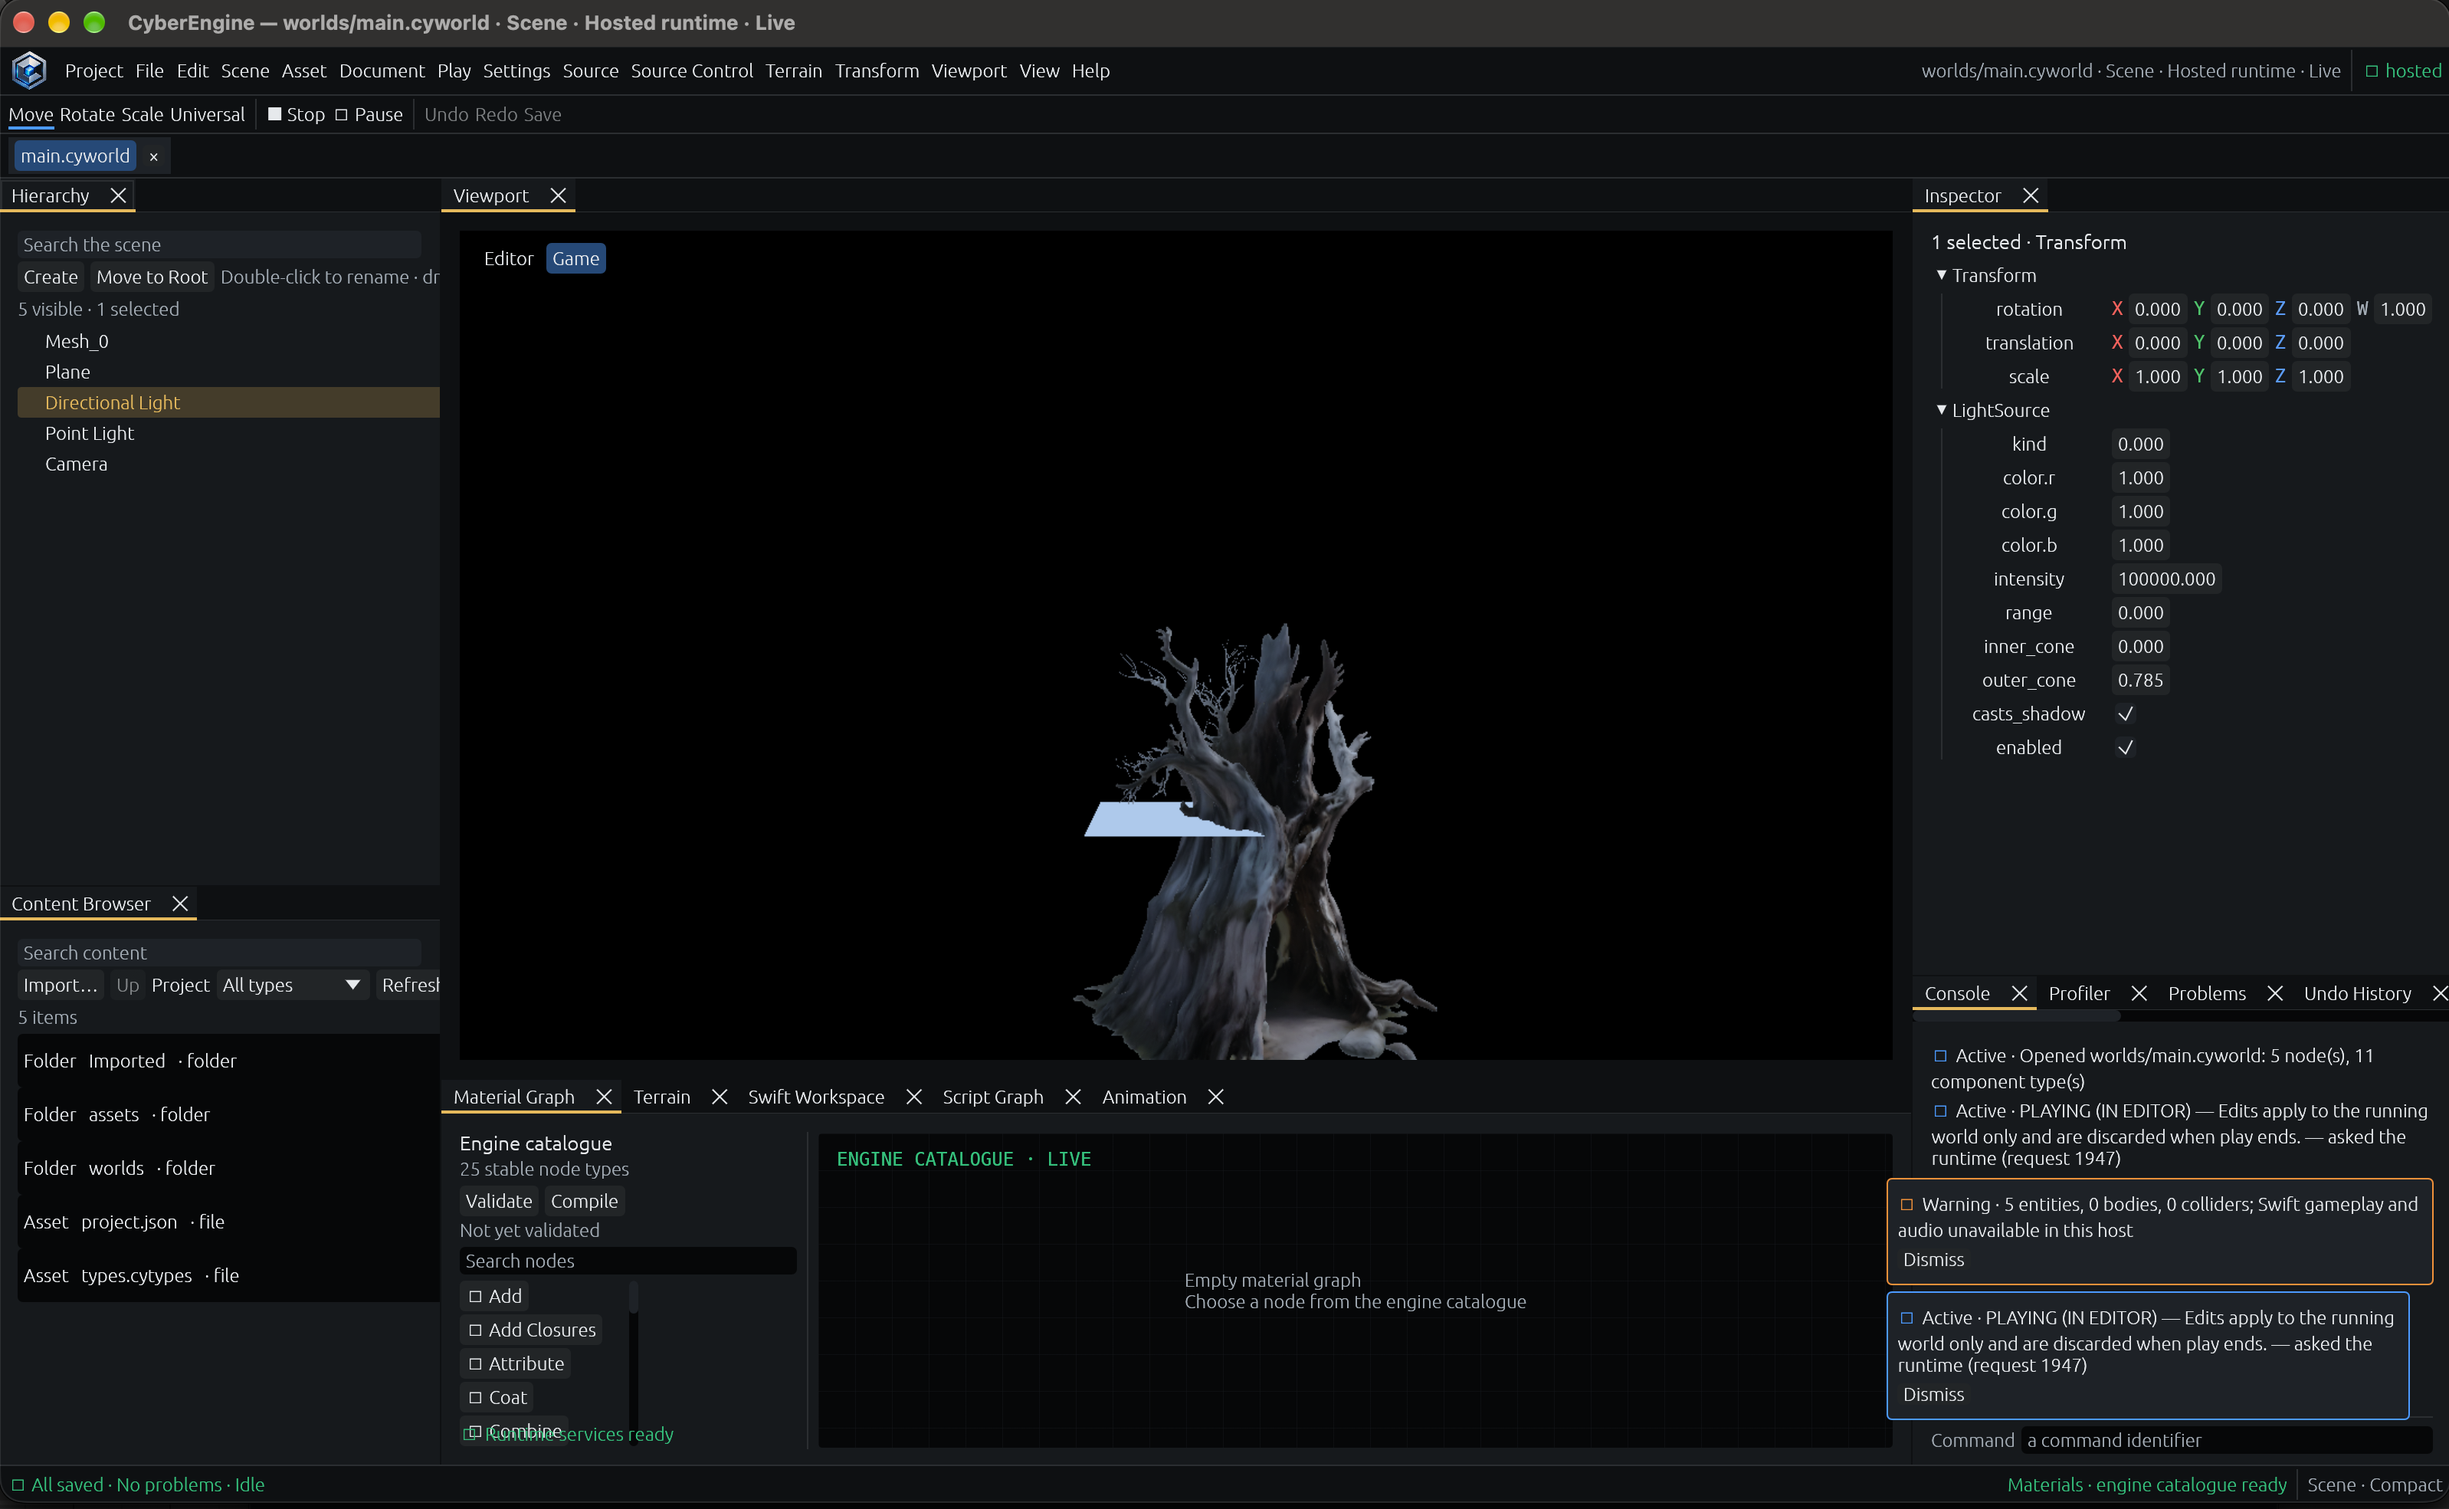
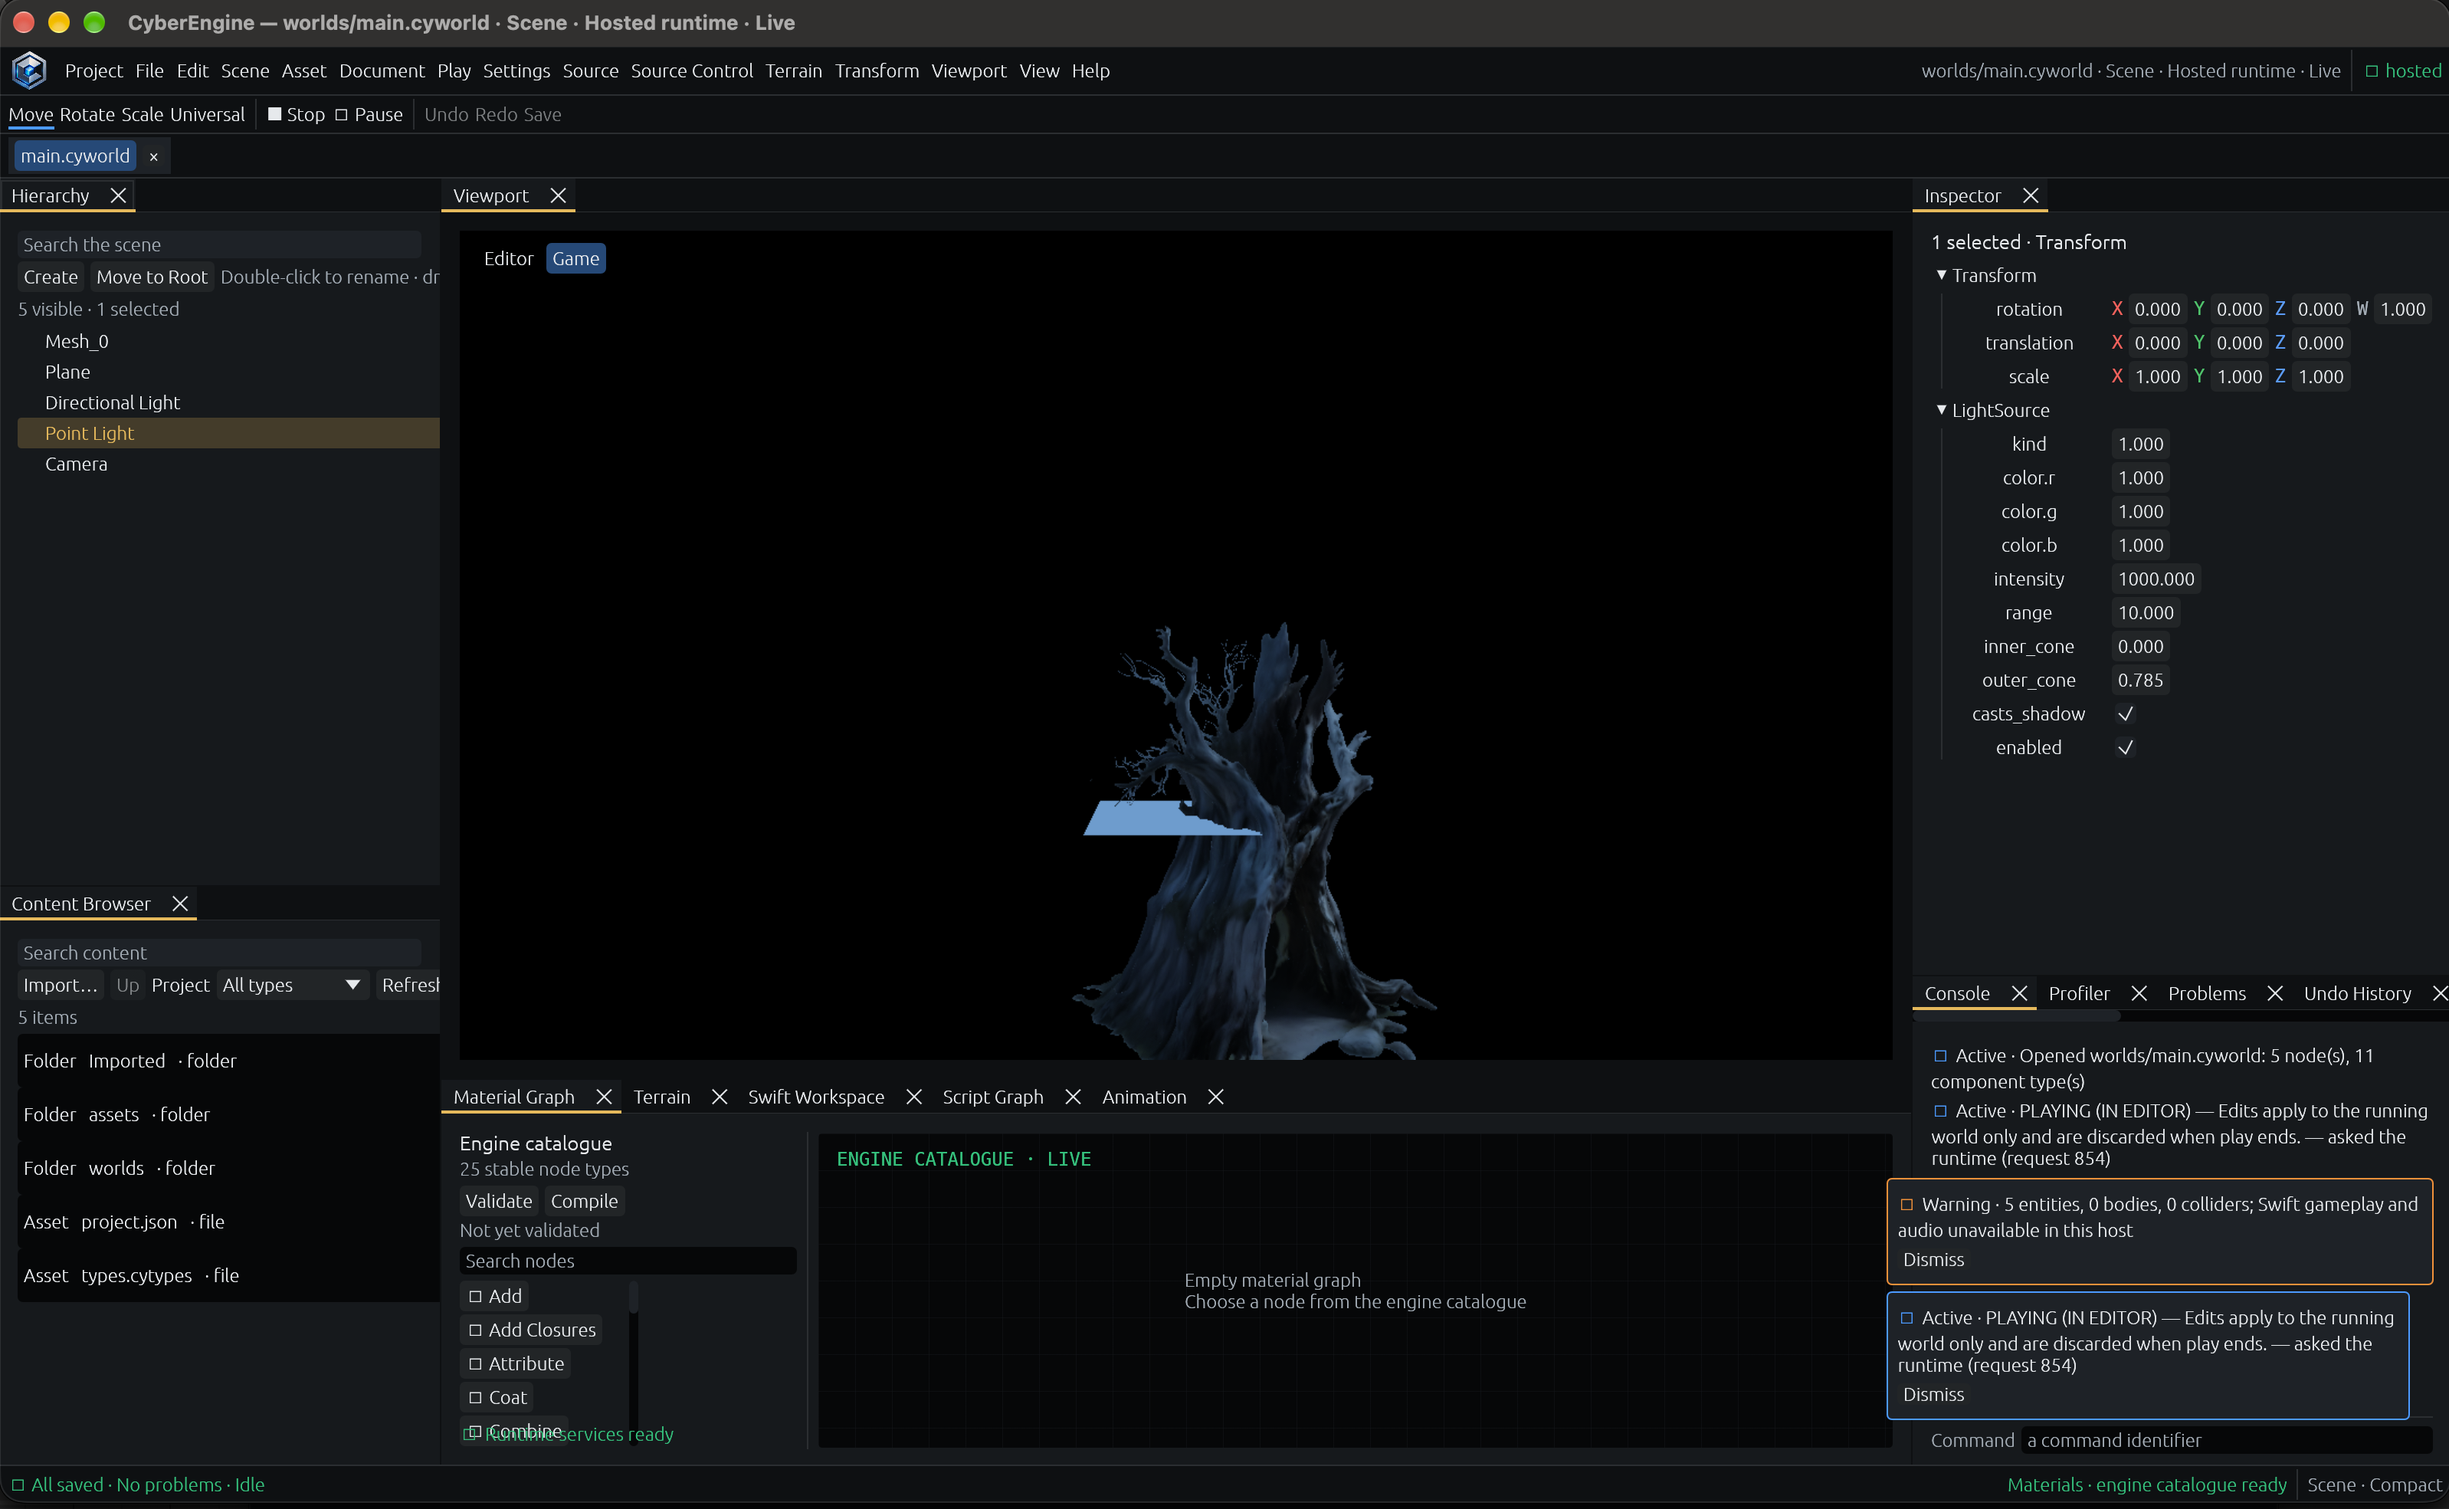
Keep editor preview fill out of Game rendering

Changed region(s): [[0.4337, 0.4027, 0.5885, 0.7125], [0.0, 0.2478, 0.1859, 0.3098]]

diff --git a/samples/05b-editor-window/runtime/authored_frame.cpp b/samples/05b-editor-window/runtime/authored_frame.cpp
@@ -838,7 +838,7 @@ Status AuthoredFrame::render(const ser::World& world, const first_light::Camera&
     if (!begun) {
         return make_unexpected(begun.error());
     }
-    Status result = capture(*begun, camera);
+    Status result = capture(*begun, camera, editor_lighting);
     if (Status ended = device_->end_frame(); !ended && result) {
         return ended;
     }
@@ -958,7 +958,8 @@ first_light::Camera AuthoredFrame::framing(const first_light::Camera& fallback) 
     return camera;
 }
 
-Status AuthoredFrame::capture(u32 slot, const first_light::Camera& camera) noexcept {
+Status AuthoredFrame::capture(u32 slot, const first_light::Camera& camera,
+                              bool editor_lighting) noexcept {
     graph_.reset();
     const Vec3 eye{static_cast<f32>(camera.position[0]), static_cast<f32>(camera.position[1]),
                    static_cast<f32>(camera.position[2])};
@@ -1002,10 +1003,12 @@ Status AuthoredFrame::capture(u32 slot, const first_light::Camera& camera) noexc
     globals.exposure_stops = -11.4F;
     FrameUpload data = upload_for(assembly_, report, projection * relative_view, relative_view,
                                   transforms_.span(), globals, material_offsets_);
-    // A neutral studio fill keeps imported materials readable while the scene has no authored
-    // environment or lights. The physical sky still contributes above this floor.
-    for (u32 channel = 0; channel < 3; ++channel) {
-        data.view.ambient_and_occlusion[channel] += 5000.0F;
+    // The studio fill belongs to Editor preview only. Game renders the authored lighting without
+    // silently adding a light the scene does not contain.
+    if (editor_lighting) {
+        for (u32 channel = 0; channel < 3; ++channel) {
+            data.view.ambient_and_occlusion[channel] += 5000.0F;
+        }
     }
     if (!texture_handles_.empty()) {
         data.view.material_textures[0] = base_color_texture_offset_;

diff --git a/samples/05b-editor-window/runtime/tests/test_authored_frame_metal.cpp b/samples/05b-editor-window/runtime/tests/test_authored_frame_metal.cpp
@@ -221,9 +221,17 @@ CY_TEST_CASE("authored Metal frame renders a mesh and publishes its transformed 
         CY_CHECK(game_camera.fov_y_radians > 1.0F);
         CY_CHECK(!frame.scene_camera(empty, 0, game_camera));
 
+        CY_REQUIRE(frame.render(sphere, view, true));
+        Array<u32> preview(allocator());
+        CY_REQUIRE(preview.append(frame.pixels()));
         CY_REQUIRE(frame.render(sphere, view, false));
         Array<u32> unlit(allocator());
         CY_REQUIRE(unlit.append(frame.pixels()));
+        usize preview_pixels = 0;
+        for (usize pixel = 0; pixel < preview.size(); ++pixel) {
+            preview_pixels += static_cast<usize>(preview[pixel] != unlit[pixel]);
+        }
+        CY_CHECK(preview_pixels > 50);
         CY_REQUIRE(frame.render(lit, view, false));
         usize lighting_changed = 0;
         for (usize pixel = 0; pixel < unlit.size(); ++pixel) {

diff --git a/samples/05b-editor-window/runtime/authored_frame.h b/samples/05b-editor-window/runtime/authored_frame.h
@@ -67,7 +67,8 @@ private:
     [[nodiscard]] Status append_instance(const scene::serialization::World& world,
                                          const scene::serialization::WorldNode& node,
                                          const Mat4& matrix, Vec3 eye) noexcept;
-    [[nodiscard]] Status capture(u32 slot, const first_light::Camera& camera) noexcept;
+    [[nodiscard]] Status capture(u32 slot, const first_light::Camera& camera,
+                                 bool editor_lighting) noexcept;
     void release_geometry() noexcept;
 
     static Span<const rendering::DrawSurface> surfaces(const rendering::VisibleInstance& instance,

diff --git a/editor/README.md b/editor/README.md
@@ -142,7 +142,8 @@ Camera exists, the view explains that one is needed. Switching views alone does 
 simulation. Play selects Game and advances hosted physics; Pause holds it; Stop restores the
 authored world and Editor view. The current sample hosted runtime reports Swift gameplay and audio
 as unavailable, so Play does not yet run project scripts or sound. The runtime status is shown in
-the editor instead of implying those services are active.
+the editor instead of implying those services are active. The Editor's studio fill is omitted from
+Game rendering, so authored lights determine its illumination.
 
 Live Metal captures: [Editor view with selected light](../docs/design/images/editor-scene-light-editor-metal.png)
 and [Game view during Play](../docs/design/images/editor-scene-light-game-play-metal.png).
